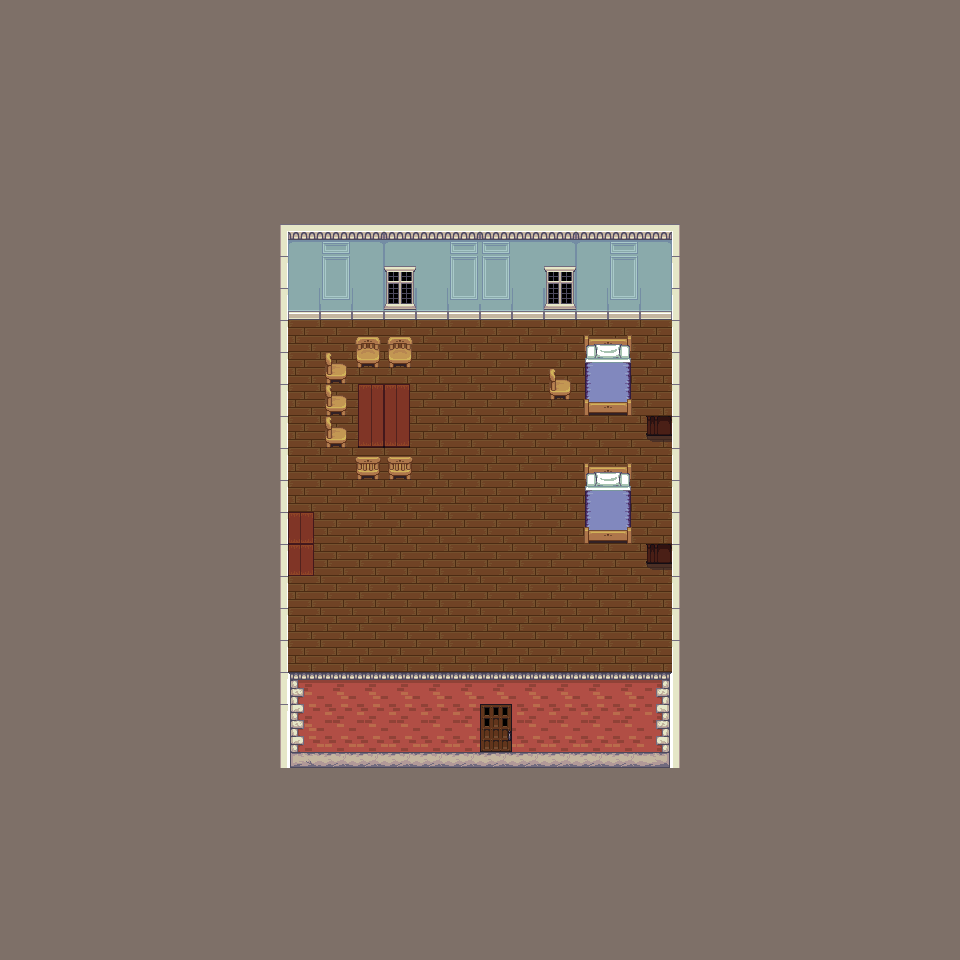
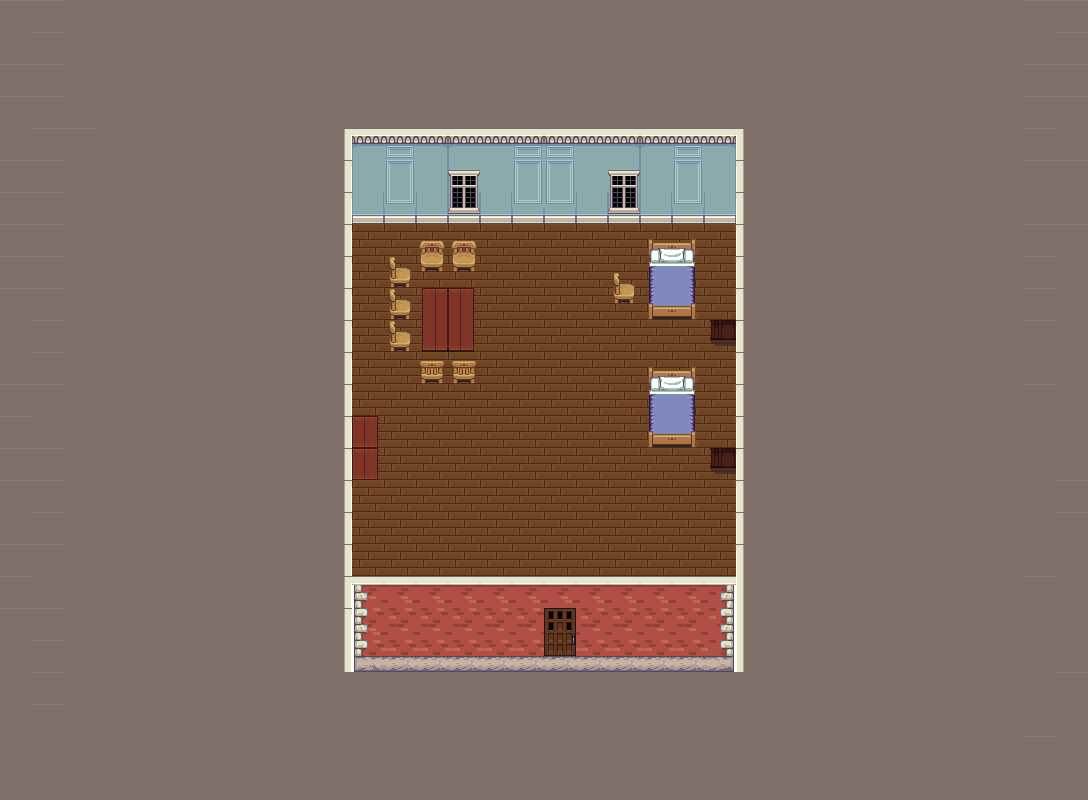
Fixed house1 map so player stays inside house

Changed region(s): [[0.2812, 0.1562, 0.7188, 0.8438]]

diff --git a/client/js/jScript.js b/client/js/jScript.js
@@ -56,7 +56,7 @@ Maps = function(id,imgSrc,width,height){
     return self;
 }
 
-currentMap = Maps('house1Floor','/client/img/house1floor.png',960,960);
+currentMap = Maps('house1Floor','/client/img/house1floor.png',1088,800);
 
 function drawMapCeiling() {
     var player = Player.list[selfId];  // The selfId tells the client which player is logged.
@@ -317,7 +317,7 @@ function playIntro3(){
 }
 
 function pauseIntro(){
-    changeMap('house1Floor', 'house1Ceiling', 960, 960, 560, 425);
+    changeMap('house1Floor', 'house1Ceiling', 800, 1088, 620, 365);
     var div = document.getElementById('dialog'); // This variable is in local scope only, so div won't conflict with other divs.
     div.style.display = "none";
     gameDisplay.style.display = "block"; 
